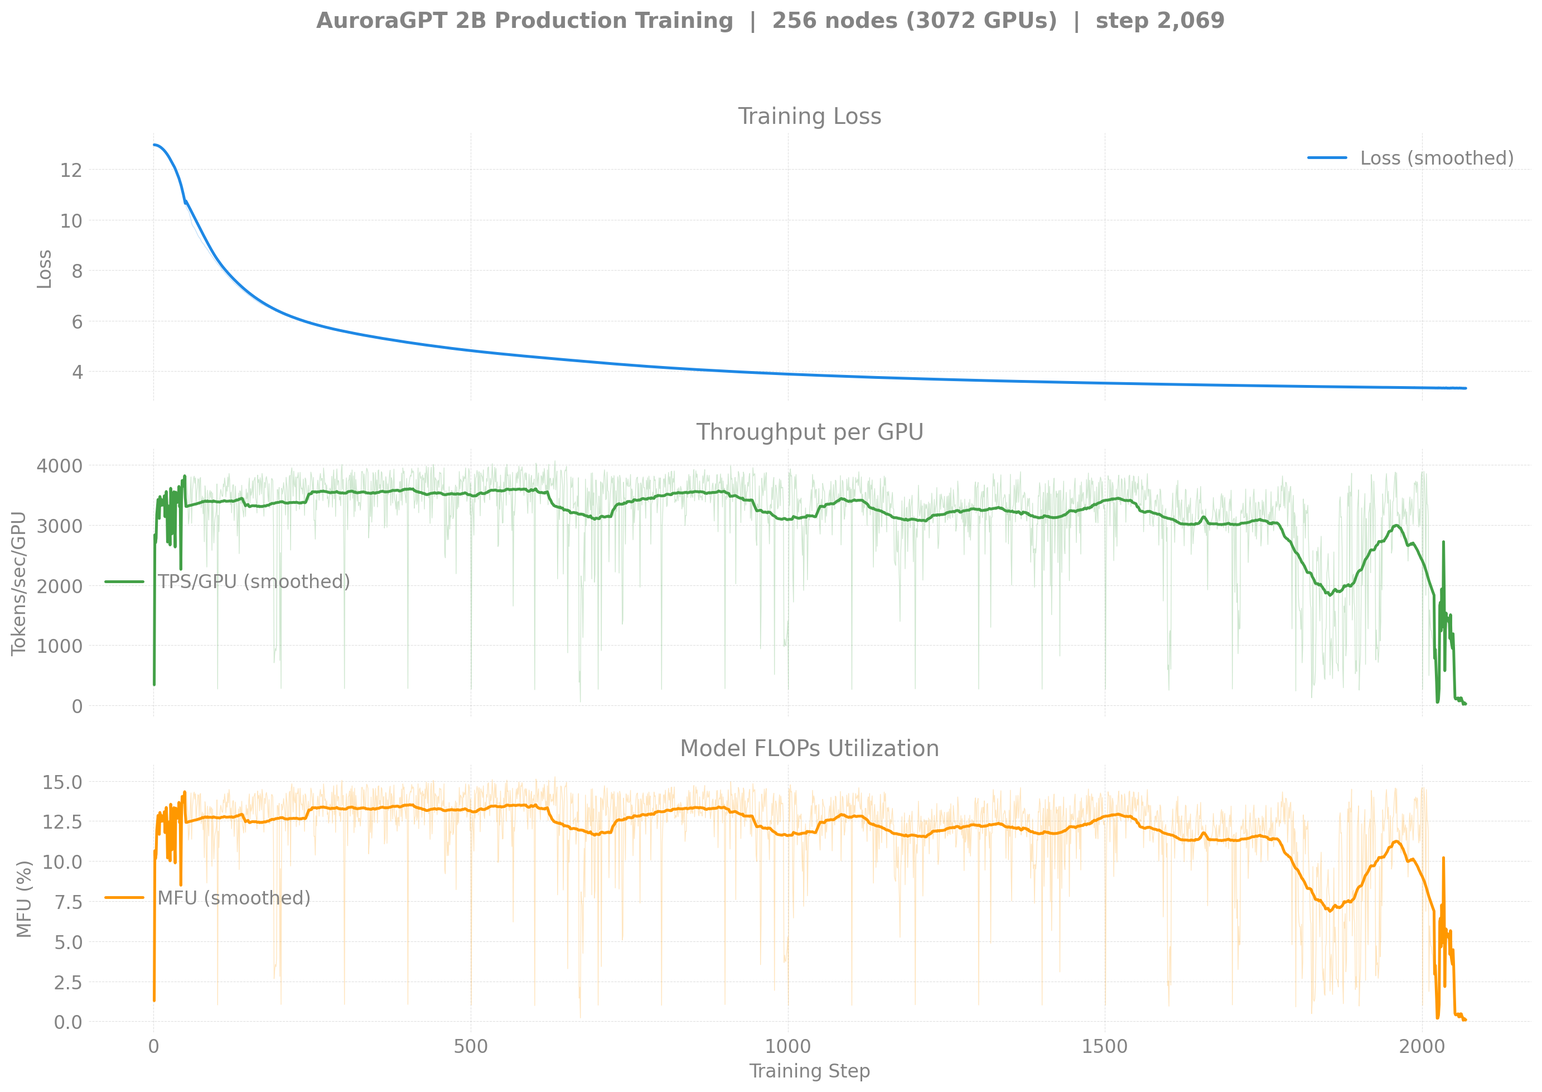
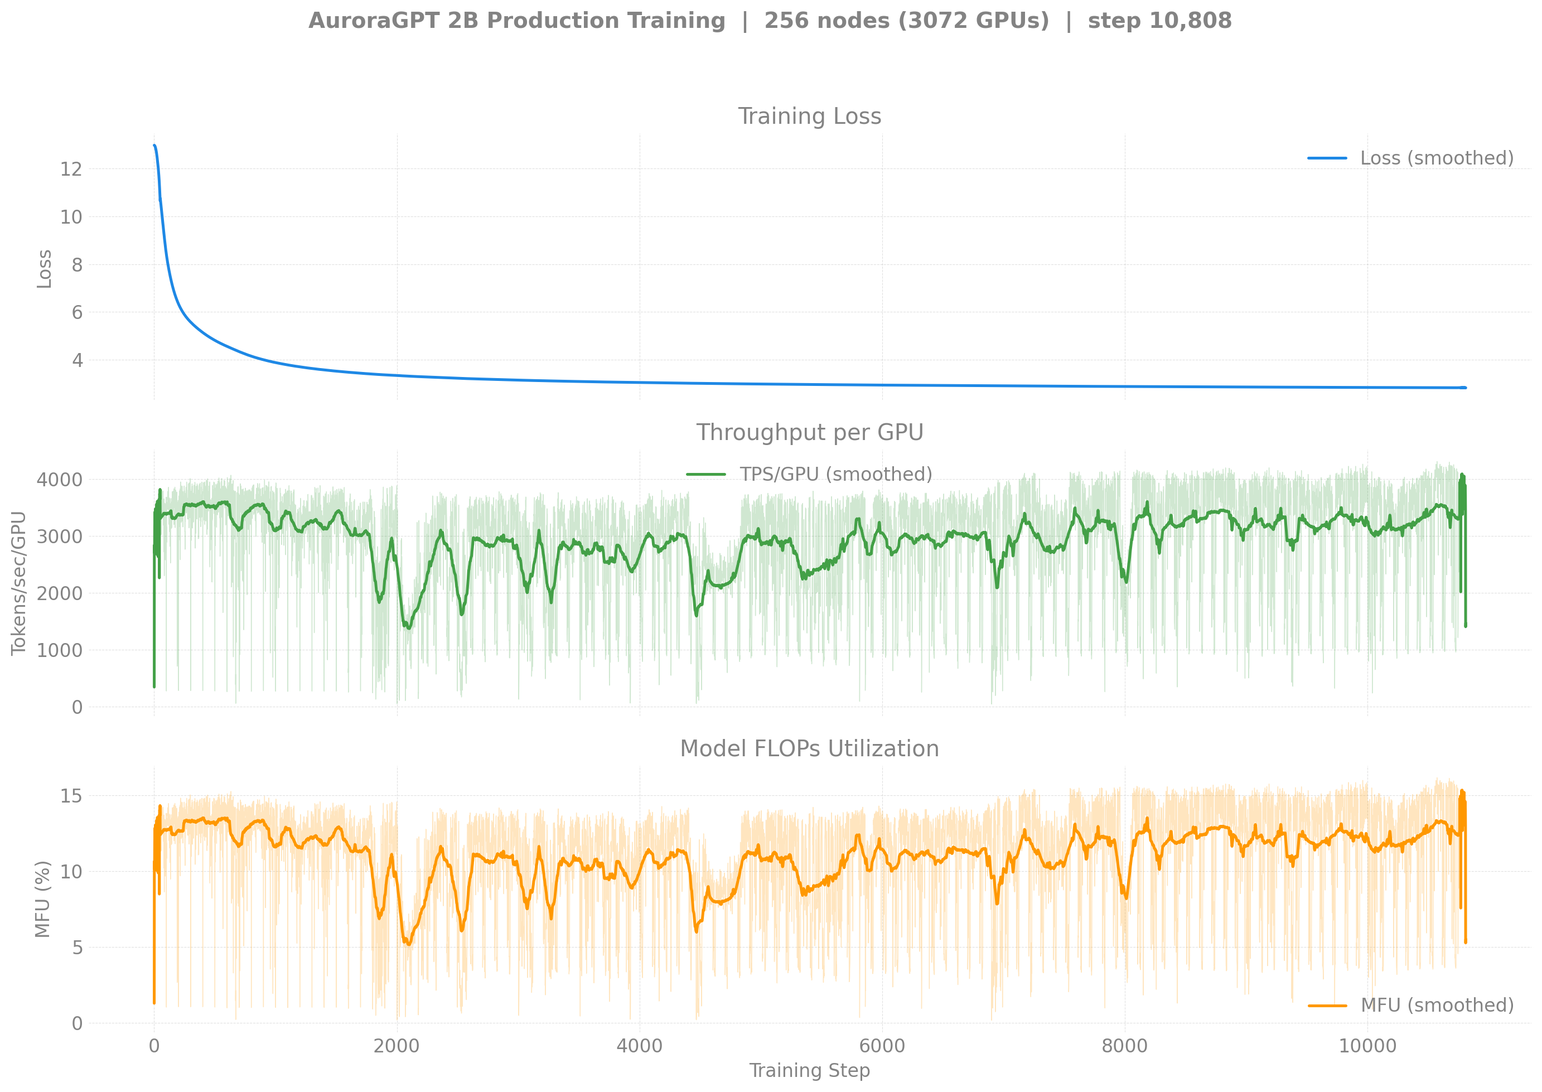
docs(ezpz/production): refresh figures + 20B resubmits (8479579/581)
Production state since 2026-05-07:
- 2B 512N canonical: step 5,073 -> 11,700 / loss 2.97 -> 2.81 / 510B
  -> 1.18T tokens (25.3% — quarter mark). Chain advanced through 8463627
  (12h walltime) and 8466847 (currently running). Figures regenerated.
- 2B 256N continuation: step 2070 -> 10,723 / loss 3.33 -> 2.84 /
  104B -> 540B tokens. Chain advanced through 8470100 + 8470101.
- 20B 512N canonical: stuck at step 863 since 2026-05-04. 8466848
  resubmit crashed at startup with set_determinism std::bad_alloc
  (same failure mode as 1024N first attempts but at 6,144 ranks now).
  8479579 + 8479580 just submitted as another retry.
- 20B 256N: step 364 -> 400 across two crashed runs (8470102/8470103
  both gloo TCP timeout at ~3h). 8479581 + 8479582 just submitted.
- sqrt(2)-LR fork: 8467141 (4h) + 8467142 (1h53m) both ran briefly,
  W&B runs 8edrii5e + oujzdxri.

Plotter: PRODUCTION_RUNS now lists every chain link's wandb run_id
(was only listing the first two for 2B 512N), so figures finally
include the full step-1 -> step-11,700 trajectory.

diff --git a/torchtitan/experiments/ezpz/utils/plot_production_wandb.py b/torchtitan/experiments/ezpz/utils/plot_production_wandb.py
@@ -84,34 +84,43 @@ PRODUCTION_RUNS: dict[str, dict] = {
         "model": "20b",
     },
     "2b_v2_256": {
-        "run_ids": ["lytjeegk"],
+        # lytjeegk = 8459818 (6h initial, step 0->2070)
+        # 0t4h0kuw = 8470100 (12h chain1, resumed step 2000)
+        # j7bz39tj = 8470101 (12h chain2, currently running)
+        "run_ids": ["lytjeegk", "0t4h0kuw", "j7bz39tj"],
         "num_nodes": 256,
         "model": "2b",
     },
     "2b_v2_512": {
         # i252kps9 = 8460301 (initial 6h, step 0->1387)
         # d4hlr8qe = 8463626 (12h chain1, resumed step 1300, ended step 5073)
-        "run_ids": ["i252kps9", "d4hlr8qe"],
+        # 1va7zfki = 8463627 (12h chain2, resumed step 5000, ended step 6955)
+        # 6op7ozfh = 8466847 (12h chain3, currently running)
+        "run_ids": ["i252kps9", "d4hlr8qe", "1va7zfki", "6op7ozfh"],
         "num_nodes": 512,
         "model": "2b",
     },
     "20b_v2_512": {
         # 9tsyx5us = 8460302 (initial 6h, step 0->300)
         # ej3zy5cq = 8463628 (12h chain1, resumed step 200, ended step 863)
+        # 8466848 (chain2 resubmit) crashed at startup with std::bad_alloc, no wandb run
         "run_ids": ["9tsyx5us", "ej3zy5cq"],
         "num_nodes": 512,
         "model": "20b",
     },
     "20b_v2_256": {
-        # r1yyxbmt = 8463659 (12h, fresh start at 256N — separate ckpt dir gbs6144)
-        "run_ids": ["r1yyxbmt"],
+        # r1yyxbmt = 8463659 (12h initial, step 0->363, NODE_FAIL)
+        # 72airpph = 8470102 (3h, resumed step 300, gloo TCP timeout @ ~3h)
+        # m9c5wx2e = 8470103 (3h, chain2, also gloo TCP timeout @ ~3h)
+        "run_ids": ["r1yyxbmt", "72airpph", "m9c5wx2e"],
         "num_nodes": 256,
         "model": "20b",
     },
     "2b_v2_512_lr3.22e-5": {
-        # 8edrii5e = 8467141 (12h, sqrt(2)-LR fork — separate ckpt dir gbs12288-lr3.22e-5)
+        # 8edrii5e = 8467141 (4h, sqrt(2)-LR fork — separate ckpt dir gbs12288-lr3.22e-5)
+        # oujzdxri = 8467142 (1h53m, chain2)
         # Tests whether scaling LR by sqrt(2) closes per-token gap to 256N at GBS=12288
-        "run_ids": ["8edrii5e"],
+        "run_ids": ["8edrii5e", "oujzdxri"],
         "num_nodes": 512,
         "model": "2b",
     },

diff --git a/torchtitan/experiments/ezpz/docs/production/agpt/README.md b/torchtitan/experiments/ezpz/docs/production/agpt/README.md
@@ -21,11 +21,11 @@ extensions.
 | Job ID | Walltime | Steps | Loss | Status |
 |--------|---------:|------:|-----:|--------|
 | 8460301 | 6h | 1–1387 | 12.65 → 3.59 | Done (NODE_FAIL @ end) |
-| 8463626 | 12h | 1300–5073 | 3.59 → **2.97** | Done (NODE_FAIL @ end). 50 ckpts saved. |
-| 8463627 | 12h | 5000–6955+ | 2.97 → **2.90** | **Running** (resumed from step-5000, ~7h elapsed) |
-| 8466847 | 12h | (cont.) | — | Held (`afterany:8463627`) |
+| 8463626 | 12h | 1300–5073 | 3.59 → 2.97 | Done (NODE_FAIL @ end). 50 ckpts saved. |
+| 8463627 | 12h | 5000–6955 | 2.97 → 2.90 | Done (walltime hit). |
+| 8466847 | 12h | 6900–11700+ | 2.90 → **2.81** | **Running** (~8h35m elapsed; ~25% of target tokens reached) |
 
-**Latest cumulative**: step **5,073** · loss **2.97** · **510B tokens** (10.9% of 4.67T target).
+**Latest cumulative**: step **11,700** · loss **2.81** · **1.18T tokens** (25.3% of 4.67T target).
 
 ### 20B canonical chain (512N)
 
@@ -33,23 +33,29 @@ extensions.
 |--------|---------:|------:|-----:|--------|
 | 8460302 | 6h | 1–300 | 12.94 → 4.95 | Done (NODE_FAIL @ end). 3 ckpts saved. |
 | 8463628 | 12h | 200–863 | 5.62 → **3.46** | Done (walltime hit). step-100..800 ckpts saved. |
-| 8466848 | 12h | 800+ | — | **Queued** (auto-resume from step-800) |
+| 8466848 | 12h | — | — | **Crashed @ startup** (`set_determinism` `std::bad_alloc`, same failure mode as 1024N attempts but at 6,144 ranks). |
+| 8479579 | 12h | 800+ | — | **Queued** — resubmit, auto-resumes from step-800 |
+| 8479580 | 12h | (cont.) | — | Held (`afterany:8479579`) |
 
 **Latest cumulative**: step **863** · loss **3.46** · **87B tokens** (1.9% of 4.67T target).
 
-## Other queued jobs (independent ckpt trajectories, NOT canonical chain)
+## Other jobs (independent ckpt trajectories)
 
 | Job ID | Model | Nodes | Walltime | Status | Notes |
 |--------|-------|------:|---------:|--------|-------|
 | 8463182 | 2B | 1024 | 12h | **Crashed @ startup (211s, std::bad_alloc)** | Fresh start, separate ckpt dir (`n1024-gbs24576`) |
 | 8463183 | 20B | 1024 | 12h | **Crashed @ startup (211s, SIGSEGV)** | Fresh start, separate ckpt dir (`n1024-gbs24576`) |
 | 8463659 | 20B | 256 | 12h | **NODE_FAIL** after step 364 (loss 4.61) | Fresh start, separate ckpt dir (`n256-gbs6144`). step-300 ckpt saved. |
-| 8470100 | 2B  | 256 | 12h | Queued — resumes from step-2000 (`n256-gbs6144`) | Submitted 2026-05-04 since 512N stuck. 8470101 held behind. |
-| 8470101 | 2B  | 256 | 12h | Held (`afterany:8470100`) | 2nd 256N continuation in chain |
-| 8470102 | 20B | 256 | 12h | Queued — resumes from step-300 (`n256-gbs6144`) | Submitted 2026-05-04 since 512N stuck. 8470103 held behind. |
-| 8470103 | 20B | 256 | 12h | Held (`afterany:8470102`) | 2nd 256N continuation in chain |
+| 8470100 | 2B  | 256 | 12h | Done (walltime), step ~10000 | Resumed from step-2000 → step ~10000 in 12h. |
+| 8470101 | 2B  | 256 | 12h | **Running** (~7h21m elapsed) | step **10,723**, loss **2.84** |
+| 8470102 | 20B | 256 | 12h | **Crashed** (gloo TCP timeout @ 3h15m) | Resumed step-300 → step-400 saved before crash |
+| 8470103 | 20B | 256 | 12h | **Crashed** (gloo TCP timeout @ 2h59m) | Chained continuation, also bad-node |
+| 8467141 | 2B  | 512 | 12h | Done | √2-LR fork (LR=3.22e-5) chain1, separate ckpt dir |
+| 8467142 | 2B  | 512 | 12h | Done | √2-LR fork chain2 |
+| 8479581 | 20B | 256 | 12h | **Queued** — resumes from step-400 | Resubmit after 8470102/3 gloo failures |
+| 8479582 | 20B | 256 | 12h | Held (`afterany:8479581`) | 2nd 256N continuation in chain |
 
-**80B**: not yet restarted in v2.
+**80B**: working v2 path identified 2026-05-05 (4N smoke `compile=OFF`, loss 12.98→10.46, MFU ~17.8%). Not yet productionized — needs warmup added + long-running script. See [`80b/n256/`](20b/README.md) and `compile=OFF` Known-Bug entry in `.claude/CLAUDE.md`.
 
 ## Reference: pre-torchtitan MDS run (2B SophiaG, ~7.77T tokens)
 

diff --git a/torchtitan/experiments/ezpz/docs/production/agpt/20b/n256/README.md b/torchtitan/experiments/ezpz/docs/production/agpt/20b/n256/README.md
@@ -6,18 +6,13 @@
 
 ## v2 — 20B @ 256N — SophiaG LR=2.28e-5 (fp32 master)
 
-> Status: 8463659 ran for **9h walltime** then hit **NODE_FAIL** after
-> step 364 (`shepherd died from signal 9` on node `x4406c6s7b0n0`,
-> exit -20 — same recurring Aurora bad-node failure mode as 8459818
-> and 8460301). step-300 ckpt saved cleanly. Continuation chain
-> (8470102 + 8470103) submitted 2026-05-04 because the canonical 512N
-> chain (8466848) has been Q for 4+ days waiting for 512N slots —
-> falling back to 256N to keep training advancing. Will resume from
-> step-300. Throughput bounced between 21 and 410 TPS depending on
-> concurrent flare bandwidth — when uncontested the run hit ~20% MFU;
-> under contention (eval ckpt I/O, other yeet-env jobs) it dropped to
-> ~1% MFU. Independent trajectory from the canonical 512N chain
-> ([n512/](../n512/README.md)) — different ckpt dir
+> Status: at step 400, ~40B tokens. Three runs so far:
+> 8463659 NODE_FAIL @ 364 (signal 9 on bad node), then 8470102 + 8470103
+> chain both crashed with **gloo TCP timeouts at ~3h elapsed** (likely
+> bad-node communication issue). One additional ckpt (step-400) saved
+> from 8470102 before the crash. 8479581 just submitted to retry
+> (resumes from step-400). Independent trajectory from the canonical
+> 512N chain ([n512/](../n512/README.md)) — different ckpt dir
 > (`gbs6144` vs `gbs12288`), so it can't extend the chain — but
 > useful as a per-token comparator at the same optimizer state.
 
@@ -51,19 +46,23 @@
 
 | Job ID | Walltime | Steps | Loss (start → end) | TPS/GPU | MFU | Status |
 |--------|---------:|------:|-------------------:|--------:|----:|--------|
-| 8463659 | 12h | 1–364 | 12.96 → **4.61** | 21-410 (variable) | 1-20% (variable) | **NODE_FAIL** after step 364 (`shepherd died from signal 9` on `x4406c6s7b0n0`, exit -20). step-100/200/300 ckpts saved. |
-| 8470102 | 12h | 300+ | (resuming) | — | — | **Queued** (will resume from step-300 — submitted 2026-05-04 since 512N slots stuck) |
-| 8470103 | 12h | (cont.) | — | — | — | Held (`afterany:8470102`) |
+| 8463659 | 12h | 1–364 | 12.96 → 4.61 | 21-410 (variable) | 1-20% (variable) | **NODE_FAIL** after step 364 (`shepherd died from signal 9` on `x4406c6s7b0n0`, exit -20). step-100/200/300 ckpts saved. |
+| 8470102 | 12h | 300–~500 | 4.61 → ~5.5 | varies | varies | **Crashed** @ 3h15m (gloo TCP timeout `Connection closed by peer`, multiple ranks). step-400 ckpt saved. |
+| 8470103 | 12h | 300–~500 | (resumed but) | — | — | **Crashed** @ 2h59m (also gloo TCP timeout). |
+| 8479581 | 12h | 400+ | — | — | — | **Queued** (resubmit, 2026-05-11) — auto-resumes from step-400 |
+| 8479582 | 12h | (cont.) | — | — | — | Held (`afterany:8479581`) |
 
-**Latest checkpoint:** step-300
+**Latest checkpoint:** step-400
 
-**Tokens consumed:** 364 × 6,144 × 8,192 = **18.3B tokens** (0.39% of 4.67T target)
+**Tokens consumed:** 400 × 6,144 × 8,192 = **20.1B tokens** (0.43% of 4.67T target)
 
 **Logs:**
 
 - `8463659`: `/flare/AuroraGPT/foremans/runs/agpt-20b-v2/torchtitan-ezpz/agpt-20b-n256-v2.o8463659`
-- `8470102`: queued — log will land in `/flare/AuroraGPT/foremans/runs/agpt-20b-v2/torchtitan-ezpz/` on start
-- `8470103`: held (`afterany:8470102`) — log will land in `/flare/AuroraGPT/foremans/runs/agpt-20b-v2/torchtitan-ezpz/`
+- `8470102`: `/flare/AuroraGPT/foremans/runs/agpt-20b-v2/torchtitan-ezpz/agpt-20b-n256-v2-chain1.o8470102`
+- `8470103`: `/flare/AuroraGPT/foremans/runs/agpt-20b-v2/torchtitan-ezpz/agpt-20b-n256-v2-chain2.o8470103`
+- `8479581`: queued — log will land in `/flare/AuroraGPT/foremans/runs/agpt-20b-v2/torchtitan-ezpz/` on start
+- `8479582`: held (`afterany:8479581`)
 
 ---
 

diff --git a/torchtitan/experiments/ezpz/docs/production/agpt/20b/n512/README.md b/torchtitan/experiments/ezpz/docs/production/agpt/20b/n512/README.md
@@ -2,9 +2,16 @@
 
 > **This is the canonical 20B production chain.**
 >
+> **Status (2026-05-11):** Stuck at step 863 / loss 3.46 / 87B tokens
+> since 8463628 walltime-finished cleanly on 2026-05-04. Two intermediate
+> resubmits failed: 8466848 hit `set_determinism` `std::bad_alloc` at
+> startup (intermittent cluster-side bug, same failure mode as the
+> 1024N first attempts), so 8479579 was just submitted to retry.
+>
 > **Eval scores:** see [`docs/evals/agpt/20b/`](../../../../evals/agpt/20b/README.md)
-> for the v1-vs-v2 lm-eval comparison. v2 ARC-Easy starting to lift at
-> 30B tokens (0.295 vs v1 flat 0.27); will revisit at higher token counts.
+> for the v1-vs-v2 lm-eval comparison. ARC-Easy lifted **0.271 → 0.444**
+> across steps 100→800 vs v1's flat ~0.27 baseline. HellaSwag norm
+> +3pp above v1 by step 800.
 
 ## v2 — 20B @ 512N — SophiaG LR=2.28e-5 (fp32 master)
 
@@ -38,20 +45,26 @@
 | Job ID | Walltime | Steps | Loss (start → end) | TPS/GPU | MFU | Status |
 |--------|---------:|------:|-------------------:|--------:|----:|--------|
 | 8460302 | 6h | 1–300 | 12.94 → 4.95 | ~355 | ~17.7% | Walltime hit (NODE_FAIL at end). 3 ckpts saved. |
-| 8463628 | 12h | 200–862+ | 5.62 → **3.47** | ~355 | ~17.8% | **Running** (~12h elapsed, walltime imminent; step-100..800 ckpts saved) |
-| 8466848 | 12h | (cont.) | — | — | — | Held (`afterany:8463628`) |
+| 8463628 | 12h | 200–863 | 5.62 → **3.46** | ~355 | ~17.8% | Done (walltime, step-100..800 ckpts saved). |
+| 8466848 | — | — | — | — | — | **Crashed @ startup** (127s) — `MemoryError: std::bad_alloc` in `torch.distributed.broadcast` during `set_determinism`. Same failure mode as 1024N first attempts; now triggering at 6,144 ranks too. |
+| 8479579 | 12h | 800+ | — | — | — | **Queued** (resubmit, 2026-05-11) — auto-resumes from step-800 |
+| 8479580 | 12h | (cont.) | — | — | — | Held (`afterany:8479579`) |
 
 **Latest checkpoint:** step-800 (244 GB on disk per ckpt)
 
-**Cumulative steps:** ~862 (more incoming as 8463628 finishes its walltime; 8466848 then auto-releases)
+**Cumulative steps:** 863 (waiting on 8479579 to advance)
 
-**Tokens consumed:** ~862 × 12,288 × 8,192 = **~87B tokens** (~1.9% of 4.67T target)
+**Tokens consumed:** 863 × 12,288 × 8,192 = **87B tokens** (1.9% of 4.67T target)
 
 **Logs:**
 
 - `8460302`: `/flare/AuroraGPT/foremans/runs/agpt-20b-v2/torchtitan-ezpz/agpt-20b-n512.o8460302`
 - `8463628`: `/flare/AuroraGPT/foremans/runs/agpt-20b-v2/torchtitan-ezpz/agpt-20b-n512-v2-chain1.o8463628`
-- `8466848`: held (`afterany:8463628`) — log will land in `/flare/AuroraGPT/foremans/runs/agpt-20b-v2/torchtitan-ezpz/`
+- `8466848`: `/flare/AuroraGPT/foremans/runs/agpt-20b-v2/torchtitan-ezpz/agpt-20b-n512-v2-chain2.o8466848` (startup crash)
+- `8479579`: queued — log will land in `/flare/AuroraGPT/foremans/runs/agpt-20b-v2/torchtitan-ezpz/` on start
+- `8479580`: held (`afterany:8479579`)
+
+> **Note on 8466848 crash:** `set_determinism` calls `torch.distributed.broadcast(seed_tensor, src=0)` and one rank hit `std::bad_alloc`. This is the same failure mode that killed both 1024N attempts (8463182, 8463183) on 2026-05-04 — but at 6,144 ranks (512N) instead of 12,288 (1024N). The previous 20B 512N run (8463628, 4 days earlier) succeeded at the same scale and same script, so it's intermittent. See [`memory/project_1024n_init_crash.md`](.) — that memory's "1024N only" claim is now stale; bracket should be 512N+ on bad luck.
 
 ---
 

diff --git a/torchtitan/experiments/ezpz/docs/production/agpt/2b/n256/README.md b/torchtitan/experiments/ezpz/docs/production/agpt/2b/n256/README.md
@@ -6,11 +6,15 @@
 
 ## v2 — 2B @ 256N — SophiaG LR=2.28e-5 (fp32 master)
 
-> Status: 8459818 (6h, NODE_FAIL after step 2070, 20 ckpts saved)
-> ran end-of-April. Continuation chain (8470100 + 8470101) submitted
-> 2026-05-04 because the canonical 512N chain (8463627 + 8466847)
-> has been Q for 4+ days waiting for 512N slots — falling back to 256N
-> to keep training advancing. Will resume from step-2000.
+> Status: at step **10,723, loss 2.84, 540B tokens (11.5% of 4.67T)**.
+> Three runs: 8459818 (initial, NODE_FAIL @ 2070), 8470100 (chain1,
+> walltime), 8470101 (chain2, **currently running**). Loss tracking
+> the canonical 512N chain closely (256N: 2.84 @ step 10,723; 512N:
+> 2.81 @ step 11,700) — at matched step counts the per-token
+> under-training pattern documented in
+> [`docs/evals/agpt/2b/`](../../../../evals/agpt/2b/README.md) is
+> visible (256N learns more per token, 512N learns more per wall
+> clock).
 
 | Field | Value |
 |-------|-------|
@@ -43,18 +47,20 @@
 | Job ID | Steps | Loss (start → end) | TPS/GPU | MFU | Status |
 |--------|-------|---------------------|---------|-----|--------|
 | 8459818 | 1–2070 | 12.93 → 3.33 | ~3,500 | ~13% | NODE_FAIL after step 2070 (single bad node dragged TPS to ~30 then killed). 20 ckpts saved (every 100 steps). |
-| 8470100 | 2000+ | (resuming) | — | — | **Queued** (12h, will resume from step-2000 — submitted 2026-05-04 since 512N slots stuck) |
-| 8470101 | (cont.) | — | — | — | Held (`afterany:8470100`) |
+| 8470100 | 2000–~10000 | 3.33 → ~2.85 | ~1,000 | ~3.8% | Done (walltime, 12h02m). Resumed from step-2000. |
+| 8470101 | 10000–10723+ | 2.85 → **2.84** | ~1,000 | ~3.8% | **Running** (~7h21m elapsed; chained continuation) |
 
-**Latest checkpoint:** step-2000
+**Latest checkpoint:** step-10700 (8470101 saving every 100 steps)
 
-**Tokens consumed:** 2070 × 6144 × 8192 = **104B tokens** (2.2% of target)
+**Cumulative steps:** ~10,723
+
+**Tokens consumed:** 10,723 × 6,144 × 8,192 = **540B tokens** (11.5% of 4.67T target)
 
 **Logs:**
 
 - `8459818`: `/flare/AuroraGPT/foremans/runs/agpt-2b-v2/torchtitan-ezpz/agpt-2b-n256.o8459818`
-- `8470100`: queued — log will land in `/flare/AuroraGPT/foremans/runs/agpt-2b-v2/torchtitan-ezpz/` on start
-- `8470101`: held (`afterany:8470100`) — log will land in `/flare/AuroraGPT/foremans/runs/agpt-2b-v2/torchtitan-ezpz/`
+- `8470100`: `/flare/AuroraGPT/foremans/runs/agpt-2b-v2/torchtitan-ezpz/agpt-2b-n256-v2-chain1.o8470100`
+- `8470101`: `/flare/AuroraGPT/foremans/runs/agpt-2b-v2/torchtitan-ezpz/agpt-2b-n256-v2-chain2.o8470101`
 
 ---
 

diff --git a/torchtitan/experiments/ezpz/docs/production/README.md b/torchtitan/experiments/ezpz/docs/production/README.md
@@ -31,18 +31,24 @@ for the diagnosis.
 
 | Model | Nodes | Cumulative steps | Loss | Tokens | Latest job | Status |
 |-------|------:|-----------------:|-----:|-------:|------------|--------|
-| 2B  | 512 | **6,955** | **2.90** | **700B** (15.0%) | 8463627 | **Running** — resumed from step-5000 (~7h elapsed) |
-| 20B | 512 | **863**   | **3.46** | **87B** (1.9%)   | 8466848 | Queued — auto-resumes from step-800 |
+| 2B  | 512 | **11,700** | **2.81** | **1.18T** (25.3%) | 8466847 | **Running** (chain3, ~8h35m elapsed) — quarter-mark reached |
+| 20B | 512 | **863**    | **3.46** | **87B** (1.9%)    | 8479579 | Queued (resubmit) — 8466848 crashed at `set_determinism` `std::bad_alloc` (same failure mode 1024N first hit, now seen at 6,144 ranks too) |
 
-### Other jobs (independent ckpt trajectories)
+### Active 256N trajectories
+
+| Model | Nodes | Cumulative steps | Loss | Tokens | Latest job | Status |
+|-------|------:|-----------------:|-----:|-------:|------------|--------|
+| 2B  | 256 | **10,723** | **2.84** | **1.08T** (23.1%) | 8470101 | **Running** (chain2, ~7h21m elapsed) |
+| 20B | 256 | 400 | ~5.5 | 40B (0.86%) | 8479581 | Queued (resubmit, resumes from step-400) — 8470102/3 both crashed with gloo TCP timeouts after ~3h |
+
+### Other jobs
 
 | Job ID | Model | Nodes | Walltime | Status |
 |--------|-------|------:|---------:|--------|
 | 8463182 | 2B | 1024 | 12h | **Crashed @ startup (211s, std::bad_alloc)** |
 | 8463183 | 20B | 1024 | 12h | **Crashed @ startup (211s, SIGSEGV)** |
 | 8463659 | 20B | 256 | 12h | **NODE_FAIL** after step 364 (loss 4.61); step-300 ckpt saved |
-| 8470100/8470101 | 2B  | 256 | 12h | Queued — 256N continuation chain (resumes from step-2000); submitted because 512N stuck |
-| 8470102/8470103 | 20B | 256 | 12h | Queued — 256N continuation chain (resumes from step-300); submitted because 512N stuck |
+| 8467141/8467142 | 2B | 512 | 12h | √2-LR fork — chain1 ran 4h, chain2 ran 1h53m; both done. Tests `LR=3.22e-5` at GBS=12,288 (separate ckpt dir `gbs12288-lr3.22e-5`) |
 
 ### Dense (agpt) — bf16-tainted (superseded, kept for record)
 

diff --git a/torchtitan/experiments/ezpz/docs/production/agpt/20b/README.md b/torchtitan/experiments/ezpz/docs/production/agpt/20b/README.md
@@ -10,9 +10,9 @@
 | Trajectory | Status | Cumulative steps | Loss | Tokens |
 |------------|--------|-----------------:|-----:|-------:|
 | [v1 256N](n256/README.md) (bf16-tainted) | Historical | 2,562 | 4.83 | 64.5B |
-| [**v2 512N**](n512/README.md) (canonical chain) | Walltime hit @ step 863 (loss 3.46); 8466848 queued for resume | **863** | **3.46** | **87B** (1.9%) |
-| [v2 1024N](n1024/README.md) | Queued, no data yet | — | — | — |
-| [20B v2 256N](n256/README.md) (8463659 → 8470102 → 8470103) | NODE_FAIL after step 364; **8470102 Q** (resume from step-300, 256N continuation chain submitted 2026-05-04) | 364 | 4.61 | 18B |
+| [**v2 512N**](n512/README.md) (canonical chain) | Stuck at step 863 since 2026-05-04; 8466848 (resubmit) crashed at startup w/ `std::bad_alloc`; **8479579 Q** (2nd resubmit, 2026-05-11) | **863** | **3.46** | **87B** (1.9%) |
+| [v2 1024N](n1024/README.md) | First attempt 8463183 crashed at startup (SIGSEGV at 12,288 ranks); not retried | — | — | — |
+| [v2 256N](n256/README.md) (8463659 → 8470102 → 8470103 → 8479581) | At step 400 across 3 runs (NODE_FAIL + 2× gloo TCP timeout); **8479581 Q** (3rd resubmit, 2026-05-11) | 400 | ~5.5 | 20B |
 
 ## v1 vs v2 — overlay
 
@@ -31,7 +31,7 @@ python3 torchtitan/experiments/ezpz/utils/plot_production_wandb.py --overlay 20b
 
 ## Per-trajectory detail
 
-- [n256/](n256/README.md) — **v2 256N (8463659, running)** + v1 256N (historical, collapsed)
+- [n256/](n256/README.md) — v2 256N at step 400 (3 crashes, 8479581 queued) + v1 256N (historical, collapsed)
 - [n512/](n512/README.md) — **canonical v2 512N chain** + v1 512N (historical, collapsed)
 - [n1024/](n1024/README.md) — v2 1024N (8463183 crashed at startup, std::bad_alloc / SIGSEGV — needs investigation)
 

diff --git a/torchtitan/experiments/ezpz/docs/production/agpt/2b/n512/README.md b/torchtitan/experiments/ezpz/docs/production/agpt/2b/n512/README.md
@@ -39,21 +39,21 @@
 |--------|---------:|------:|-------------------:|--------:|----:|--------|
 | 8460301 | 6h | 1–1387 | 12.65 → 3.59 | ~2,700 | ~10% | NODE_FAIL after step 1387. 13 ckpts saved. |
 | 8463626 | 12h | 1300–5073 | 3.59 → 2.97 | ~2,700 | ~10% | Walltime hit (NODE_FAIL at end). **50 ckpts saved (every 100 steps).** |
-| 8463627 | 12h | 5000–6955+ | 2.97 → **2.90** | varies | varies | **Running** (~7h elapsed; resumed from step-5000, ~1,900 steps in) |
-| 8466847 | 12h | (cont.) | — | — | — | Held (`afterany:8463627`) |
+| 8463627 | 12h | 5000–6955 | 2.97 → 2.90 | varies | varies | Done (walltime, 12h00m18s). |
+| 8466847 | 12h | 6900–11700+ | 2.90 → **2.81** | ~2,800 | ~10% | **Running** (~8h35m elapsed; ~4,800 steps in) |
 
-**Latest checkpoint:** step-6900 (8463627 saving every 100 steps)
+**Latest checkpoint:** step-11700 (8466847 saving every 100 steps)
 
-**Cumulative steps:** ~6,955
+**Cumulative steps:** ~11,700
 
-**Tokens consumed:** 6,955 × 12,288 × 8,192 = **700B tokens** (15.0% of 4.67T target)
+**Tokens consumed:** 11,700 × 12,288 × 8,192 = **1.18T tokens** (25.3% of 4.67T target — quarter mark reached)
 
 **Logs:**
 
 - `8460301`: `/flare/AuroraGPT/foremans/runs/agpt-2b-v2/torchtitan-ezpz/agpt-2b-n512.o8460301`
 - `8463626`: `/flare/AuroraGPT/foremans/runs/agpt-2b-v2/torchtitan-ezpz/agpt-2b-n512-v2-chain1.o8463626`
 - `8463627`: `/flare/AuroraGPT/foremans/runs/agpt-2b-v2/torchtitan-ezpz/agpt-2b-n512-v2-chain2.o8463627`
-- `8466847`: held (`afterany:8463627`) — log will land in `/flare/AuroraGPT/foremans/runs/agpt-2b-v2/torchtitan-ezpz/`
+- `8466847`: `/flare/AuroraGPT/foremans/runs/agpt-2b-v2/torchtitan-ezpz/agpt-2b-n512-v2-chain3.o8466847`
 
 ---
 
